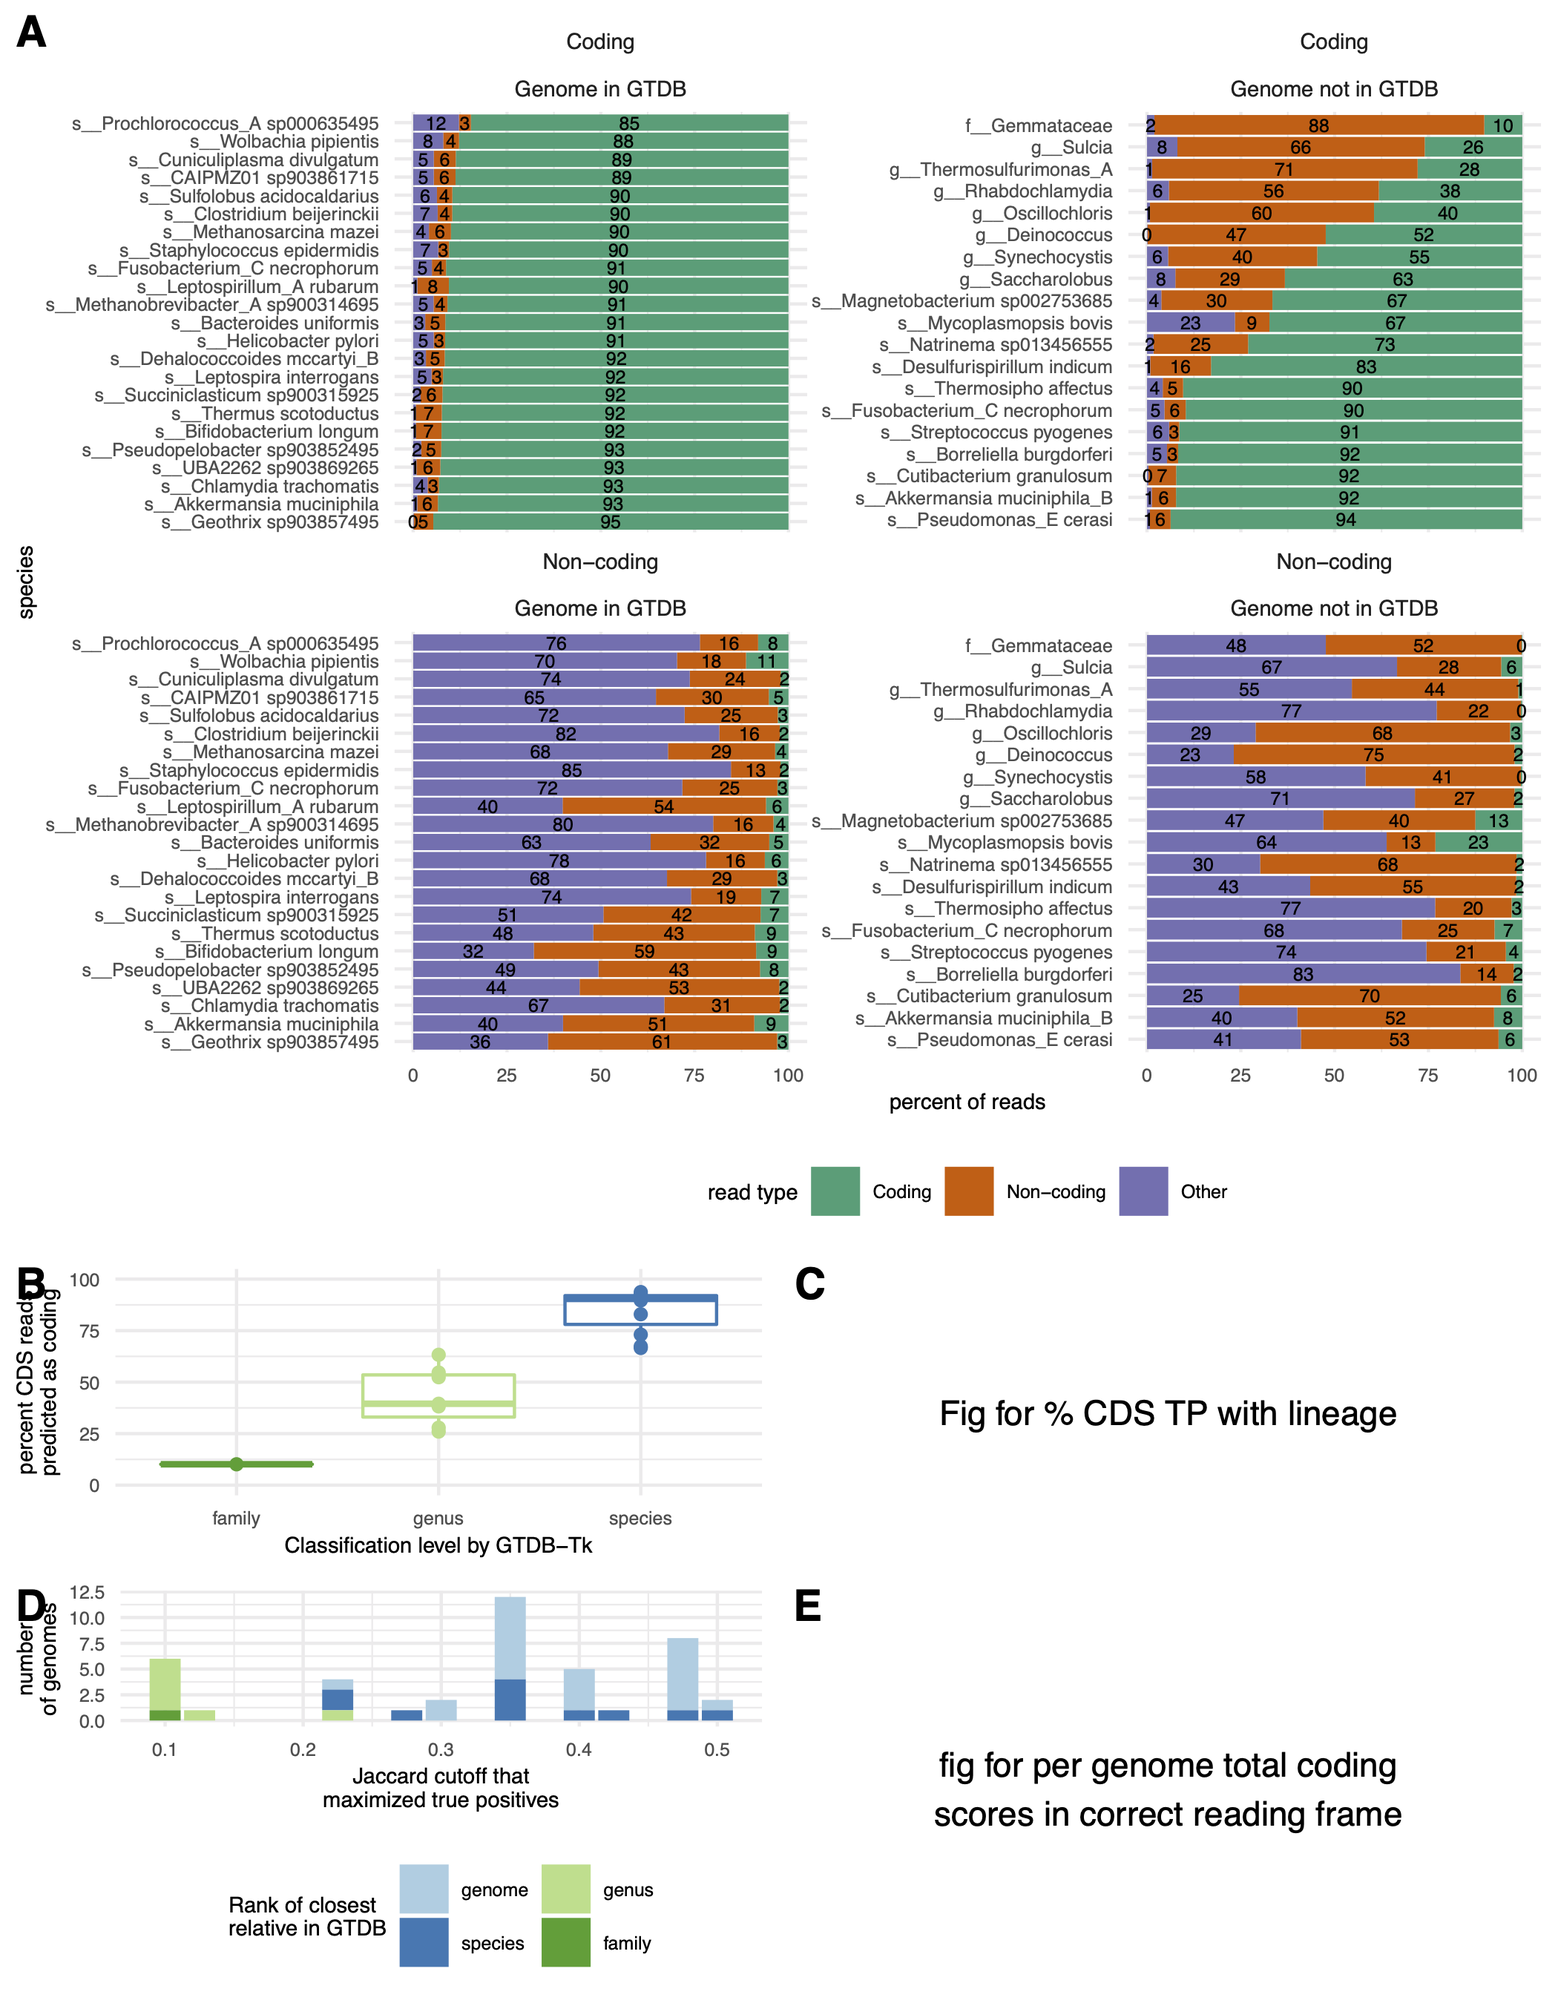
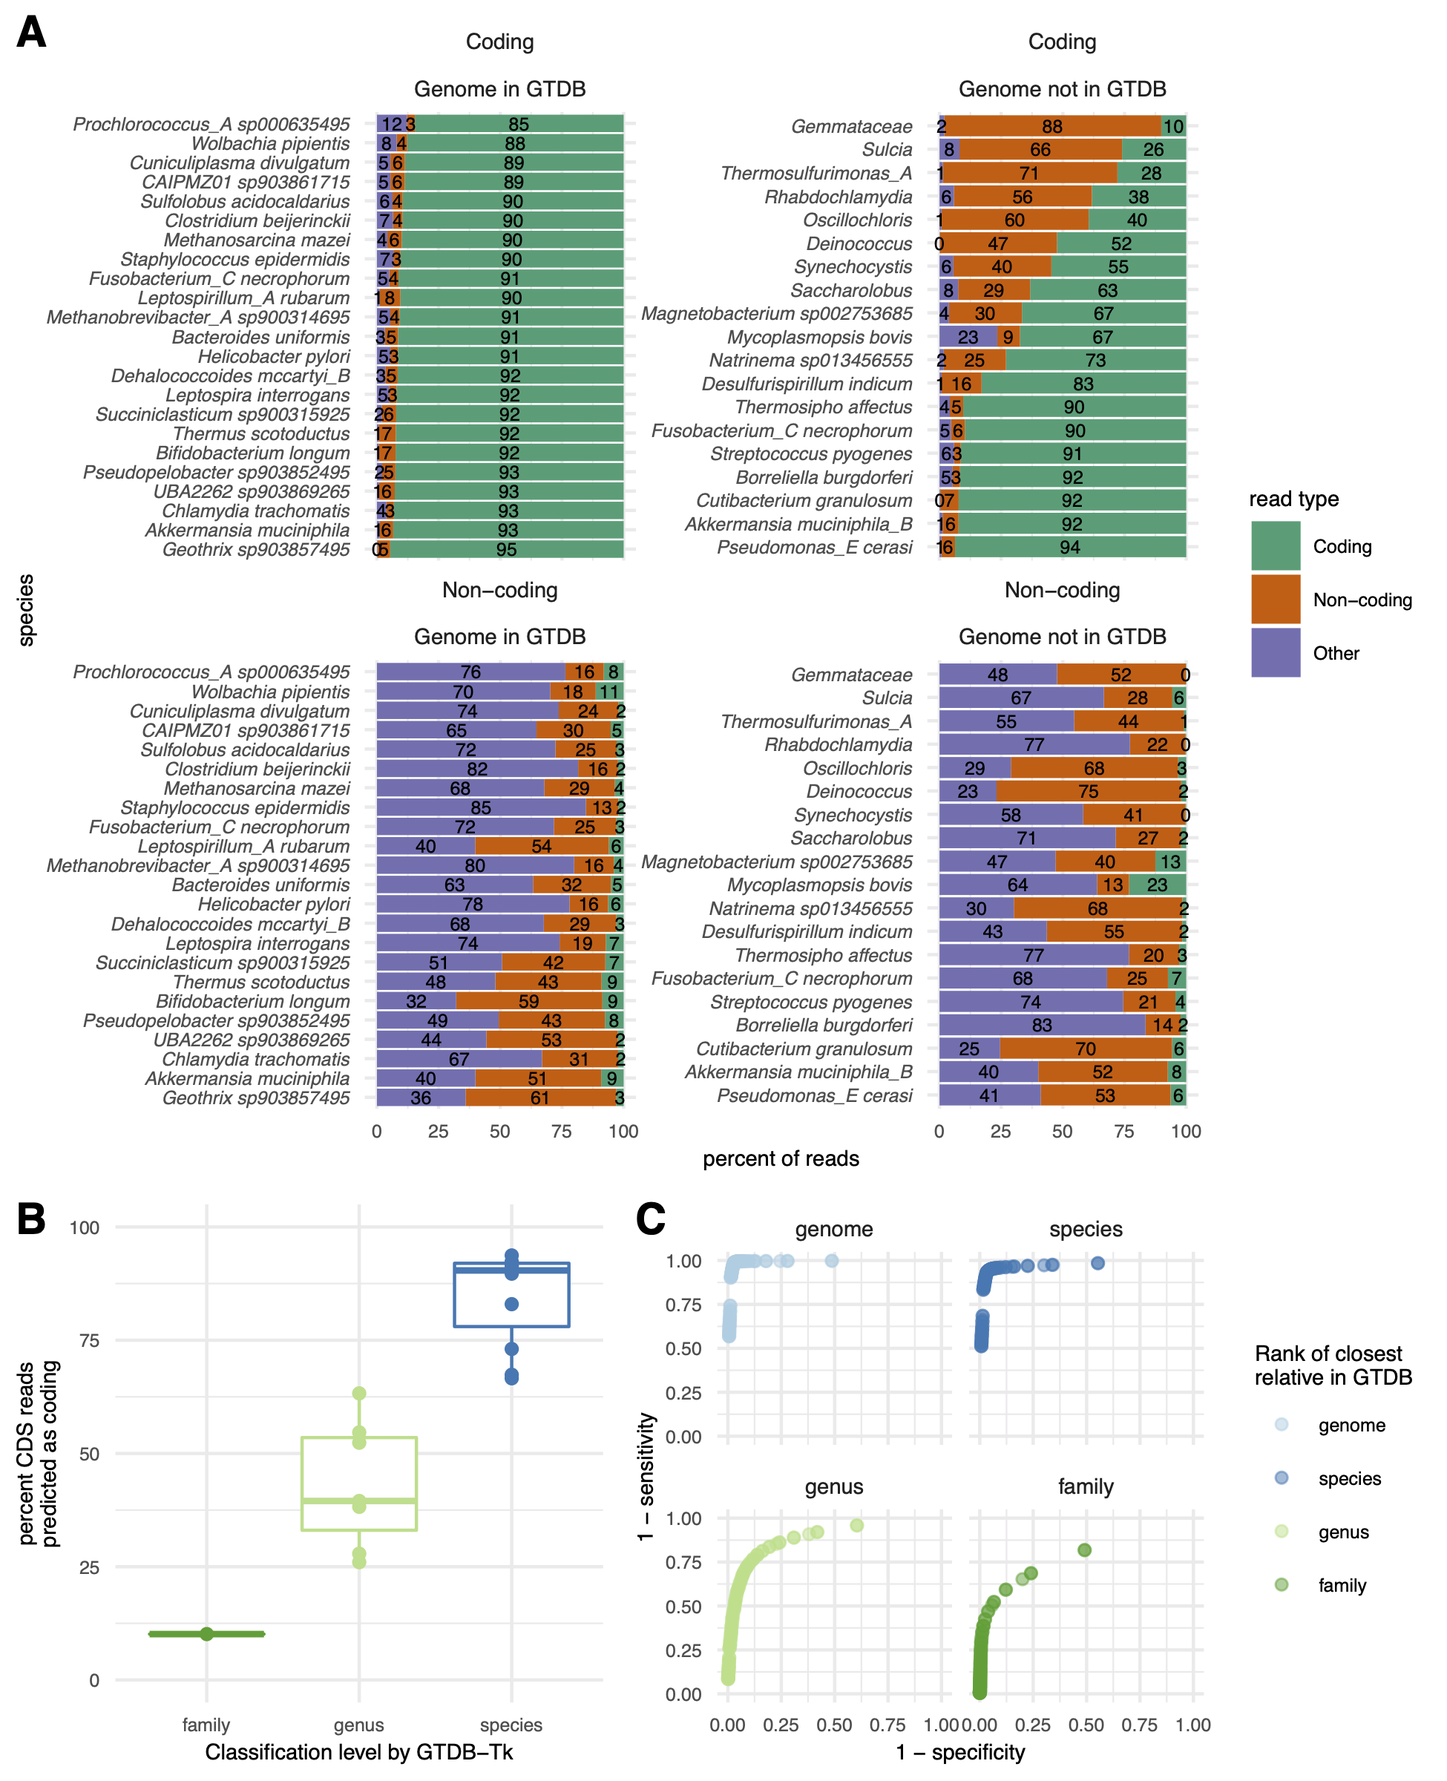
update orpheum section

diff --git a/content/03.results.md b/content/03.results.md
@@ -2,7 +2,6 @@
 
 We demonstrate ... / summarize results or something here
 
-
 ![
 **Organisms used in this paper**
 ](images/tree_fig.png "tree fig"){#fig:tree_fig}
@@ -20,92 +19,104 @@ Performance varied minimally across encodings (**Figure @fig:violin_fig**) thus 
 + @Tessa: should I compare this against nucleotide k-mers at all? Bc I think that's the underlying assumption here, nucleotides don't work for this stuff.
 
 ![
-**K-size and alphabet do not impact pangenome estimation with k-mers.** Violin plots represent the distrubtion of R2 values for linear models (Total, Unique) or statistic values for mantel tests (Mantel). *Total* corresponds to correlation between total number of distinct genes and distinct k-mers in a genome. *Unique* corresponds to correlation between the number of unique genes and unique k-mers in genome. *Mantel* corresponds to a mantel test between the gene and k-mer presence-absence matrices.
+**K-size and alphabet do not impact pangenome estimation with k-mers.** Violin plots represent the distribution of R2 values for linear models (Total, Unique) or statistic values for mantel tests (Mantel). *Total* corresponds to correlation between total number of distinct genes and distinct k-mers in a genome. *Unique* corresponds to correlation between the number of unique genes and unique k-mers in genome. *Mantel* corresponds to a mantel test between the gene and k-mer presence-absence matrices.
 ](images/violin_fig.png){#fig:violin_fig}
 
-Performance across metrics varied dramatically for different pangenomes, with k-mers and genes highly correlated for some pangenomes and not correlated for others. 
+Performance across metrics varied dramatically for different pangenomes, with k-mers and genes highly correlated for some pangenomes and not correlated for others (**Figure @fig:violin_fig**) . 
 We investigated pangenomes more closely to determine the source of the poor correlations and found that they were caused by the presence of many frameshifted proteins, one of many potential criteria for exclusion of GenBank genomes from RefSeq.
-For example, *Leptospira interrogans* had an R^2^ of 0.12, however 21 genomes contained frameshifted proteins. 
+For example, *Leptospira interrogans* had an R^2^ of 0.12 between the total number of genes and k-mers in genomes in the pangenome, however 21 genomes contained frameshifted proteins. 
 Removing these genomes increased the R^2^ to 0.87 (**Figure @fig:frameshift_fig A,B**).
 This trend was consistent across pangenomes, where pangenomes that had at least one genome that was excluded from RefSeq for having many frameshifted proteins had a significantly lower R^2^ values between total number of genes and total number of k-mers per genome than pangenomes that did not (Welch Two Sample t-test, estimate = -0.36, p = 0.003) (**Figure @fig:frameshift_fig C**).
+Other RefSeq exclusion criteria did not impact the correlation between the total genes and k-mers per genome for a given pangenome.
 
 ![
 **Genomes that are excluded from RefSeq for having many frameshifted proteins reduce similarity between gene- and k-mer-based pangenomes.**
-**A, B)** Scatterplots of the total number of distinct genes and k-mers per genome for the species *Leptospira interrogans*, where each point represents a single genome in the pangenome. 
+**A, B)** Scatter plots of the total number of distinct genes and k-mers per genome for the species *Leptospira interrogans*, where each point represents a single genome in the pangenome. 
 Removing genomes flagged with RefSeq exclusion criteria "many frameshifted proteins" improves the correlation between these variables. 
 **C)** Boxplot of R^2^ values between the total number of distinct genes and k-mers per genome. 
-Pangenomes that contain genomes with the RefSeq exclusion criteria of 'many frameshifted proteins' have significantly lower R^2^ values
+Pangenomes that contain genomes with the RefSeq exclusion criteria of "many frameshifted proteins" have significantly lower R^2^ values
 ](images/frameshift_fig.png){#fig:frameshift_fig}
 
-We next investigated whether other pangenome metrics were well correlated between k-mer-based and gene-based methods using pangenomes that did not contain genomes excluded from RefSeq for many frameshifted proteins.
+We next investigated whether other pangenome metrics were well correlated between k-mer-based and gene-based methods using pangenomes that did not contain genomes excluded from RefSeq for having many frameshifted proteins.
 For these 13 pangenomes, the percent of k-mers or genes predicted to be part of the core, shell, or cloud genome was strongly correlated (**Figure @fig:pg_fig**).
 We also compared whether pangenomes would be designated as open or closed by calculating the alpha value for the Heaps law model. 
-Alpha was also strongly correlated between gene- and k-mer based pangenomes (**Figure @fig:pg_fig**). 
+Alpha values were strongly correlated between gene- and k-mer based pangenomes (**Figure @fig:pg_fig**). 
 
 ![
 **Pangenome metrics strongly correlate between gene- and k-mer-based pangenomes.** Pangenome categories core, shell, and cloud refer to genes or k-mers shared between the majority (>95%), some, or singleton genomes in the pangenome. \Alpha is a value from Heaps law used to estimate whether a pangenome is open or closed.
 ](images/pg_fig.png){#fig:pg_fig}
 
-Lastly, we investigated whether the relationship between the number of k-mers in coding domain sequences in a genome and the number of genes in a genome was constant across diverse phyla represented here. (**Figure @fig:all_pw_fig**)
 
-+ @Tessa: Is this surprising? I know we discussed this on slack a little, but I guess with the way pangenomes are constructed, maybe its not surprising?
+## Jaccard containment between reduced alphabet k-mers and k-mers in databases accurately predicts open reading frames in short sequencing reads
+
+Given that protein k-mers can accurately estimate bacterial and archaeal pangenomes, we next sought to determine whether open reading frames could be accurately predicted directly from short sequencing reads, as this would enable pangenome analysis without assembly.
+We evaluated whether orpheum, a tool recently developed to predict open reading frames in Eukaryotic short reads (CITE), could also perform this task in bacterial and archaeal sequences.
+Orpheum predicts open reading frames by comparing reduced alphabet k-mers in six frame translations of short sequencing reads against those in a database (jaccard containment) and assigns an open reading frame as coding if containment exceeds a user-defined threshold (CITE).
+To evaluate orpheum, we constructed a database containing all k-mers in coding domain sequences from genomes in GTDB rs202.
+Using representative genomes from the 23 species above, as well as 20 additional genomes not in the GTDB rs202 database, we simulated short sequencing reads either from coding domain sequences or non-coding sequences and used these reads to test orpheum.
+
+Using default parameters, orpheum accurately separated coding from non-coding reads when reads were simulated from genomes in GTDB (**Figure @fig:orpheum_fig A**).
+For reads simulated from genomes not in GTDB, orpheum recovered the majority of coding reads when genomes of the same species were in the database (**Figure @fig:orpheum_fig A,B**).
+Accuracy decreased with increasing taxonomic distance between the query genome and the closest relative in the database (**Figure @fig:orpheum_fig B**).
+
+The majority of predictive capability originated from species-level databases.
+C beij, Thermo.
+
+For genomes that had at least species-level representatives in GTDB, the largest source of error was again non-coding reads being predicted as coding (**Figure @fig:orpheum_fig A**).
+We hypothesized that these reads originated from pseudogenes.
+To assess this hypothesis, we used annotation files produced by the NCBI Prokaryotic Genome Annotation Pipeline (PGAP), which annotates pseudogenes, for the XX genomes for which these files were available (https://www.ncbi.nlm.nih.gov/pmc/articles/PMC5001611/; https://pubmed.ncbi.nlm.nih.gov/33270901/)
+On average, XX% of non-coding reads that were predicted to be coding fell within pseudogenes annotated by the PGAP pipeline.
+Indeed, the worst performer was *Mycoplasmopsis bovis*, with 23% of non-coding reads predicted to be coding. 
+*M. bovis* causes bovine tuberculosis and its genome contains signatures of genomic decay and pseudogenization [@doi:10.3389/fmicb.2017.02389], processes that may be linked to bacterial host specialization [@doi:10.1101/cshperspect.a010041; @doi:10.1093/gbe/evv135].
+Because ORF prediction is blind to pseudogenes, it may not be appropriate for species with many pseudogenes.
+
++ Why coding as noncoding? sequencing error?
+
+|jaccard threshold | closest rank | mean sensitivity| mean specificity | mean Youden's index |
+|:-------------:|:---------------:|:----------------:|:----------------:|:------------:|
+|          0.47 | genome       |          0.988 |           0.971|       0.959|
+|          0.39 | species      |          0.941 |           0.961|       0.902|
+|          0.17 | genus        |          0.790 |           0.862|       0.653|
+|          0.07 | family       |          0.593 |           0.878|       0.471|
+Table: Jaccard containment thresholds that maximize the Youden's index depending on the taxonomic rank of the closest relative in GTDB.
+{#tbl:threshold}
+
+Decreasing the jaccard containment threshold increases the sensitivity and specificity of ORF prediction when there are no closely related genomes in the database (**Figure @fig:orpheum_fig C, Table @tbl:threshold**).
+The jaccard containment threshold controls the final prediction of coding vs. non-coding, as well as the the number of open reading frames which a read is translated into.
+
+![
+**Orpheum correctly assigned short sequencing reads as coding or non-coding and selects the correct open reading frame.**
+**A)** Percent of simulated coding or non-coding sequences predicted as coding, non-coding, or discarded based on quality metrics (see methods). 
+Genomes are split by those in GTDB and those not in GTDB.
+Genomes not in GTDB are labelled by taxonomic assignment from GTDB-tk.
+Predictions were made using default parameters (jaccard containment = 0.5).
+**B)** Boxplots of the percent of coding reads that were recovered by Orpheum, separated by the level of taxonomic assignment achieved by GTDB-Tk. 
+Orpheum recovers more coding sequences when there are closely related genomes in the database. 
+**C)** Receiver operating curves for the jaccard containment thresholds. 
+Curves are separated by the level of taxonomic assignment achieved by GTDB-Tk, and values are averaged across all genomes that fell within those categories.
+The best jaccard threshold decreases when there are fewer closely related genomes in the database.
+**D)** Databases constructed of only closely-related genomes recover the majority of coding sequences, but including increasingly distantly related genomes improves total coding recall. 
+](images/orpheum_fig.png){#fig:orpheum_fig}
+
+**LEFTOVERS**
+
++ k-mer size, alphabet selection
+  + we don't have any evidence for this yet with these data sets.
++ what are coding predicted as noncoding? "sequencing error"?
++ Even with FP/FN rate, comp matrix & mantel test to show we get the same biological results.
++ Should/do I have to compare these results against FragGeneScan?
+
+## K-mer-based metapangenomics combined with assembly graphs ... 
+
++ Time series iHMP (https://github.com/taylorreiter/2021-metapangenome-example).
++ Do I need to compare these results against typical metapangenomics? like do de novo assembly, binning, prokka? etc?
++ Show that k-mers support pangenome visualization by demonstrating.
+
+## Extra results that don't really fit in the paper, but I could force them to fit or we could put them in a different paper
+
+Lastly, we investigated whether the relationship between the number of k-mers in coding domain sequences in a genome and the number of genes in a genome was constant across diverse phyla represented here. (**Figure @fig:all_pw_fig**)
 
 ![
 **The ratio of total distinct genes per genome to total distinct k-mers per genome is conserved across distantly related species.** 
 Each point represents a single genome, and genomes are colored by species.
 ](images/all_pw_fig.png){#fig:all_pw_fig}
-
-
-## Jaccard similarity between reduced alphabet k-mers and k-mers in database accurately predicts open reading frames for short sequencing data
-
-Given that protein k-mers can accurately estimate bacterial and archaeal pangenomes, we next sought to determine whether open reading frames could be accurately predicted directly from short sequencing reads, as this would enable pangenome analysis without assembly.
-We evaluated whether orpheum, a tool recently developed to predict open reading frames in Eukaryotic short reads (CITE), could also perform this this task in bacterial and archaeal sequences.
-Orpheum predicts open reading frames by comparing reduced alphabet k-mers in six frame translations of short sequencing reads against those in a database (jaccard similarity) and assigns an open reading frame as coding if similarity exceeds a user-defined threshold (CITE).
-To evaluate orpheum, we constructed a database from all k-mers from coding domain sequences from genomes in GTDB rs202.
-Using representative genomes from the 23 species above, as well as 20 additional genomes not in the GTDB rs202 database, we simulated short sequencing reads either from coding domain sequences or non-coding sequences in the genome and used these simulated reads to test orpheum.
-
-Orpheum accurately separated coding from non-coding reads for reads that were simulated from genomes in GTDB (**Figure @fig:orpheum_fig A**).
-
-+ Why FN/FP?
-  + pseudogenes? fragments? sequencing error?
-  
-For reads simulated from genomes not in GTDB, orpheum recovered the majority of coding reads when genomes of the same species were in the database (**Figure @fig:orpheum_fig A,B**).
-
-![
-**Orpheum correctly assigned short sequencing reads as coding or non-coding and selects the correct open reading frame.**
-**A)** Percent of simulated coding or non-coding sequences predicted as coding, non-coding, or discarded based on quality metrics (see methods). 
-Genomes are split by those in GTDB and those not in GTDB. 
-**B)** Boxplots of the percent of coding reads that were recovered by Orpheum, separated by the level of taxonomic assignment acheived by GTDB-Tk. 
-Orpheum recovers more coding sequences when there are closely related genomes in the database. 
-**C)** Databases constructed of only closely-related genomes recover the majority of coding sequences, but including increasingly distantly related genomes improves total coding recall. 
-**D)** Barchart of the jaccard similarity cutoff that maximized the number of true positives for coding and non-coding reads. 
-The best jaccard similarity decreases when there are fewer closely related genomes in the database. 
-**E)** XXX.
-](images/orpheum_fig.png){#fig:orpheum_fig}
-
-**OUTLINE**
-
-+ CDS/nonCDS, in GTDB/not in GTDB results
-+ what are FP/FN
-  + pseudogenes? fragments? "sequencing error"?
-+ decreasing accuracy with fewer closely related genomes in database
-+ both genomes of the same species and genomes from distantly related organisms are important for ORF recovery
-  + horizontal gene transfer
-+ lower jaccard similarity to maximize true positives with increasingly distantly related genomes
-  + but TP decrease at lower jaccard similarity for genomes that have many genomes of the same species in the DB. Pseudogenes?
-+ k-mer size, alphabet selection
-  + we don't have any evidence for this yet with these data sets.
-+ Even with FP/FN rate, comp matrix + mantel test to show we get the same biological results.
-+ Should/do I have to compare these results against FragGeneScan?
-
-## K-mer-based metapangenomics combined with assembly graphs ... 
-
-+ Do I need to do this? It's sort of the point, and while both methods are usable on their own for different workflows, it doesn't all work together without the assembly graph component
-+ What's the simplest possible way to do this?
-  + Do it for two samples, Hu SB1 and SB2? Could pick a species that has bins in both samples, and that we queried with for the sgc paper.
-  + Do it with a time series iHMP person? I have a snakefile that gets half the way there already (https://github.com/taylorreiter/2021-sgc-arg).
-  + scoop one of the 54 nbhds I already have for all 605 IBD samples? or some subset of them? I'd really rather not get into that whole schtick, and I don't have MAGs for those samples (although I guess pasolli or something might...)
-+ Do I need to compare these results against typical metapangenomics? like do de novo assembly, binning, prokka? etc?
-
-+ If I do this -- show that k-mers support pangenome visualization by demonstrating. If not, incorporate somewhere else.
-
